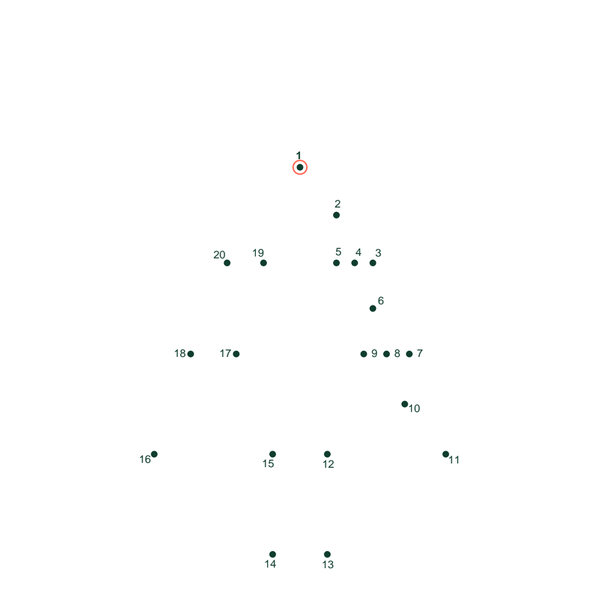
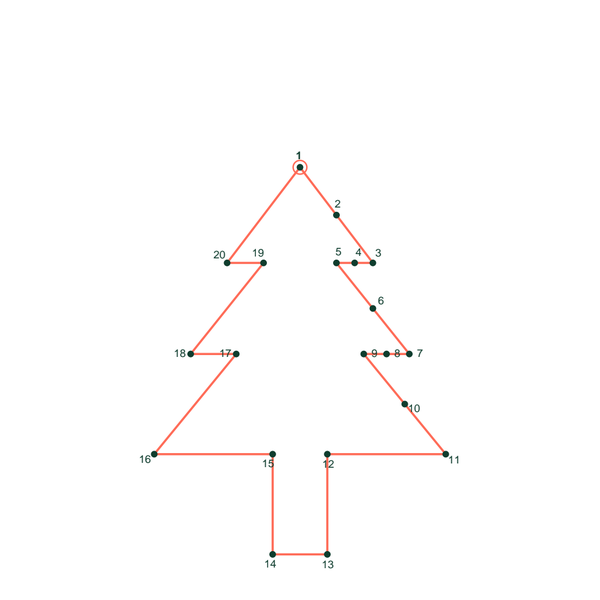
site: couvertures dot-to-dot sur l'image finie, taille des fichiers en Ko, CLAUDE.md
Claude-Session: https://claude.ai/code/session_01MthD8Tfd6RY7BsbSaPweGA

diff --git a/src/lib/listing.ts b/src/lib/listing.ts
@@ -20,7 +20,7 @@ export function puzzleItem(p: Puzzle): ListingItem {
   const d = p.data;
   const band = d.age_band ?? ageBand(d.age_min);
   return {
-    href: puzzleUrl(p), title: d.title, by: d.count ? `${d.count} ${PUZZLE_LABEL[d.type].toLowerCase()}${d.count > 1 ? 's' : ''}` : undefined, typeLabel: PUZZLE_LABEL[d.type],
+    href: puzzleUrl(p), title: d.title, by: d.count && d.count > 1 ? `${d.count} ${PUZZLE_LABEL[d.type].toLowerCase()}s` : undefined, typeLabel: PUZZLE_LABEL[d.type],
     cover: d.cover, colour: coverColour(p.id),
     pills: [d.difficulty ? titleCase(d.difficulty) : undefined, band ? AGE_BAND_LABEL[band] : undefined, `${d.pages} page${d.pages > 1 ? 's' : ''}`].filter(Boolean) as string[],
     data: { difficulty: d.difficulty, age: band, theme: d.themes.join(','), occasion: d.occasions.join(','), colour: d.colour, answers: d.answers_included ? 'yes' : 'no' },

diff --git a/src/lib/taxonomy.ts b/src/lib/taxonomy.ts
@@ -139,3 +139,8 @@ export function ruleMatches(r: Rule, f: Record<string, any>): boolean {
   if (f.public_domain !== undefined && d.public_domain !== f.public_domain) return false;
   return true;
 }
+
+export function sizeLabel(mb?: number): string | undefined {
+  if (mb === undefined) return undefined;
+  return mb < 1 ? `${Math.max(1, Math.round(mb * 1024))} KB` : `${mb} MB`;
+}

diff --git a/scripts/puzzles/dot_to_dot.py b/scripts/puzzles/dot_to_dot.py
@@ -228,7 +228,7 @@ def cover(pdf, png):
     import pypdfium2 as pdfium
     from PIL import Image
     doc = pdfium.PdfDocument(str(pdf))
-    img = doc[0].render(scale=1.6).to_pil().convert('RGB')
+    img = doc[1].render(scale=1.6).to_pil().convert('RGB')
     w, h = img.size; s = min(w, h)
     img = img.crop(((w - s) // 2, int(h * 0.12), (w - s) // 2 + s, int(h * 0.12) + s)).resize((600, 600), Image.LANCZOS)
     img.save(png, optimize=True)

diff --git a/CLAUDE.md b/CLAUDE.md
@@ -1,0 +1,22 @@
+# printandplaygame.com
+
+Static Astro 7 site (English at `/`, French under `/fr/` later) that lists free printable games and puzzles.
+Owner: Anthony (French speaker; talk to him in French, write site content in English unless the page is a French one).
+
+## Commands
+- `npm install` then `npm run build` (output in `dist/`), `npm run dev` for a local server, `npx astro preview --port 4321` to serve `dist/`.
+- Python helpers run with `python3 -I` from the repo root: `scripts/import_games.py` (catalogue JSON → game drafts), `scripts/dfs.py` (DataForSEO, needs `DFS_LOGIN` / `DFS_PASS`), `scripts/puzzles/*.py` (puzzle generators), `scripts/printables/*.py` (boards and score sheets).
+
+## Where things are
+- `src/content.config.ts`: the five collections (games, rules, puzzles, creators, hubs) and their Zod schemas. A hub file is the whitelist for a listing URL (`src/content/hubs/<path with __ for />.md`).
+- `src/lib/taxonomy.ts`: type → URL silo mapping, labels, age bands, filter matching. `src/lib/hubs.ts`: items for a hub (shared by the page and the sitemap). `src/lib/related.ts`: related-games scoring.
+- `src/pages/[...path].astro` renders hubs and puzzle pages; `src/pages/[silo]/[slug].astro` game pages; `src/pages/rules/[slug].astro` rules; `src/pages/sitemap.xml.ts` the sitemap (noindex pages excluded).
+- `src/styles/global.css`: design tokens (palette B3: ground #F7F5EE, ink #0F3D2E, primary #FF6B57, accent #CFFF5E, tint #B8D8FF; fonts Fraunces + Outfit). No Tailwind.
+- `public/pdf/`: hosted PDFs (only when the licence allows); `public/img/`: covers; `downloads/`: raw catalogue downloads, git-ignored, untrusted.
+- `docs/`: research and decisions (01 keywords … 12 Cloudflare deployment). `CONTENT-GUIDE.md`: the writing checklist every content page follows.
+
+## Rules of the house
+- Never host a PDF without a licence that allows it (CC, public domain) or written permission; otherwise `hosting_mode: link`.
+- Never invent metadata, reviews or download counts. Verify on the source page or BoardGameGeek (api.geekdo.com JSON works; boardgamegeek.com HTML is behind Cloudflare).
+- Facet pages are static URLs only when they are in the hub whitelist and have at least 4 items (docs/10); everything else is a client-side filter.
+- Commit messages in French, no model names in commits.
